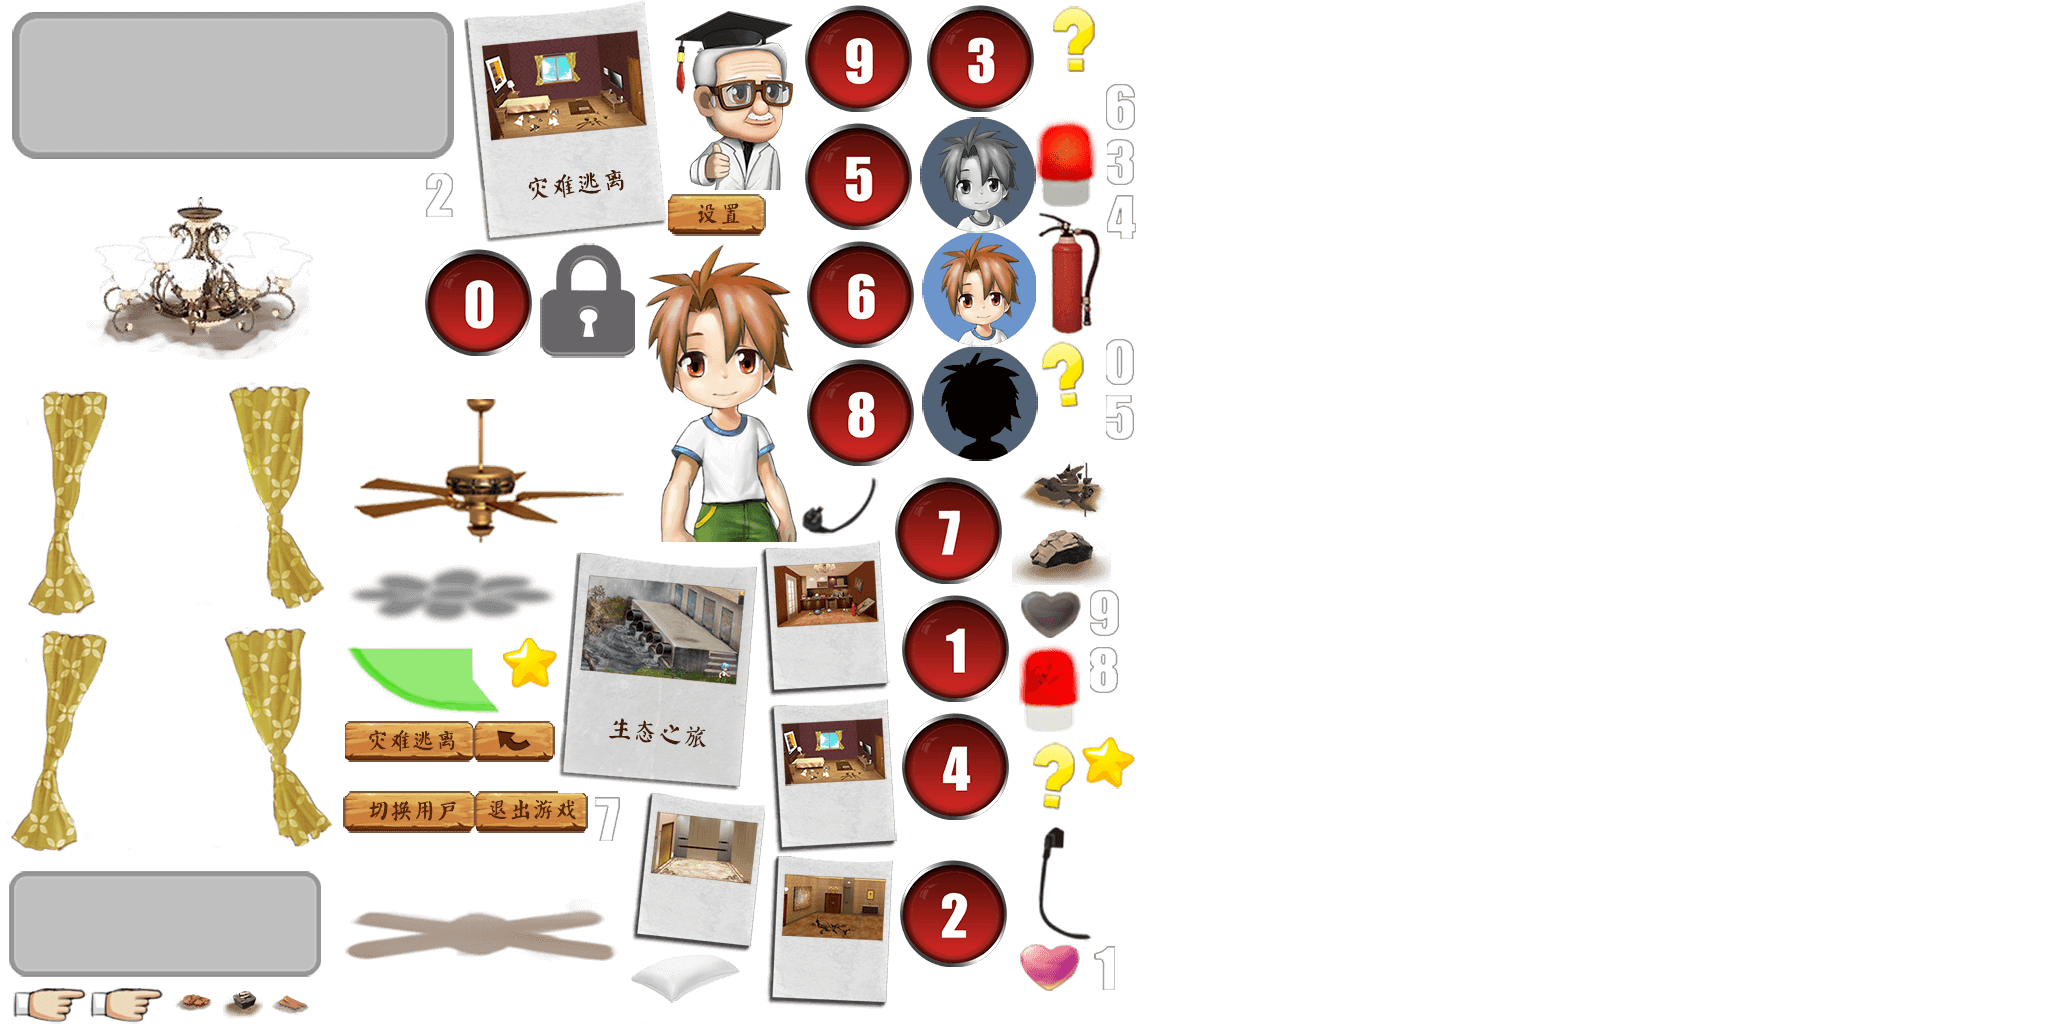
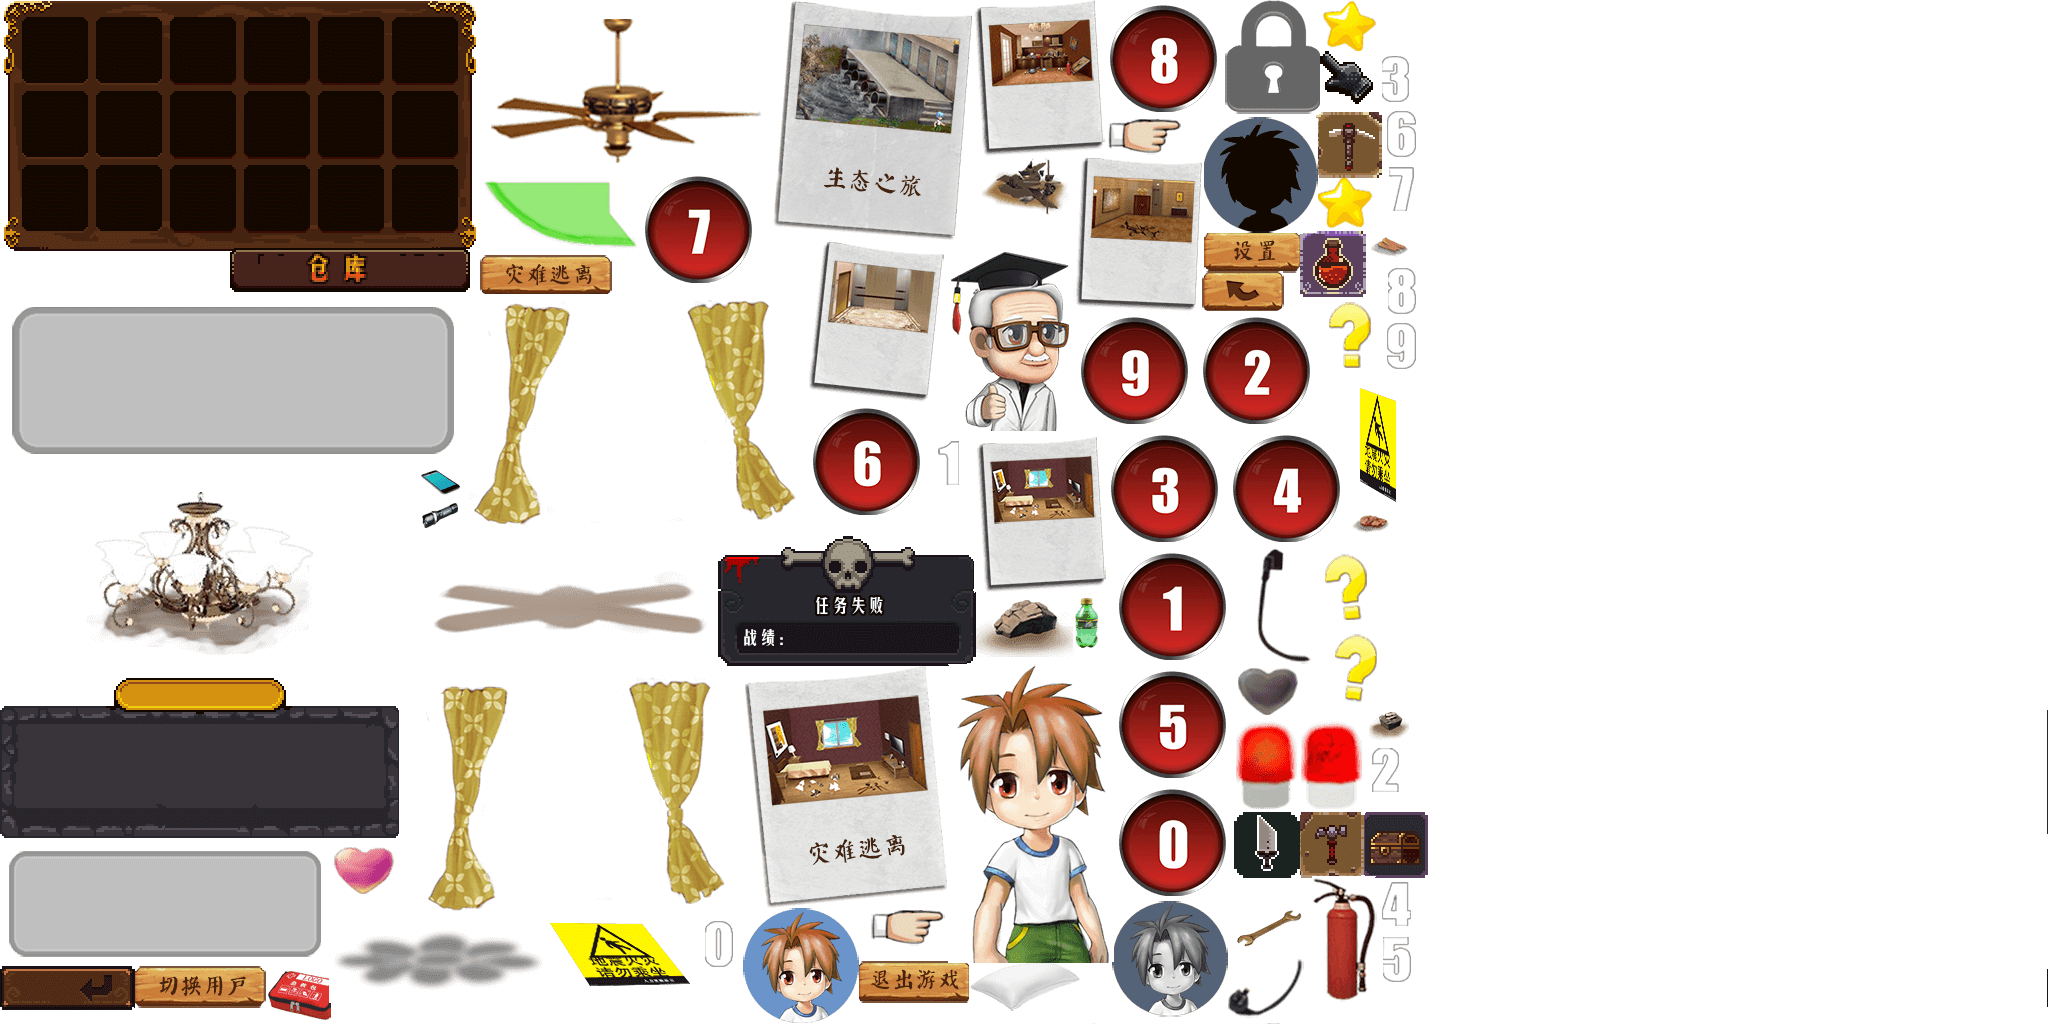
go to riddle

diff --git a/bak/js/data/configdata.js b/bak/js/data/configdata.js
@@ -12,7 +12,7 @@ game.configdata = new function(){
 	
 	self.DOWNLOADLIST_PNGS = ['fallobjs.png','bedroomafter.png', 'plug1.png','bedroombefore.png', 'boyactions.png', 'cookieroom.png', 'corridor.png', 'corridorrbg.png', 'effects.png', 'uimap.png', 'lift.png', 'liftbg.png', 'mainbg.png'];
 	//objects
-	self.IMAGEDATA_1={"liftpass":[630,792,136,162],"finger01":[0,987,86,36],"heart02":[1016,941,69,53],"ceilinglamp1":[0,168,419,212],"block3":[1011,523,99,63],"iconnum07":[889,472,122,118],"iconnum06":[801,236,122,118],"whitenum08":[1083,643,40,55],"iconnum04":[896,708,122,118],"question2":[1043,0,62,80],"question3":[1018,736,62,80],"pillow":[630,954,111,48],"question1":[1037,335,62,80],"whitenum00":[1099,335,40,55],"whitenum02":[419,168,40,55],"whitenum03":[1100,135,40,55],"iconnum01":[896,590,122,118],"backbtn":[474,722,80,39],"pass02":[463,0,204,244],"cookiepass":[758,541,131,157],"pass01":[558,551,200,241],"chuanglian2":[0,380,344,242],"start01":[1080,736,56,52],"lampshader":[344,551,214,86],"pass01btn":[344,722,130,39],"fanshader":[330,864,300,134],"iconnum03":[921,0,122,118],"iconnum02":[894,855,122,118],"btnchangeuser":[344,792,131,40],"iconnum00":[419,244,122,118],"whitenum07":[587,792,40,55],"warn1":[1035,118,65,93],"iconnum09":[799,0,122,118],"setup":[667,195,98,40],"tilebg":[0,864,330,123],"bedroompass":[766,698,130,157],"block0":[219,987,47,35],"block2":[266,987,47,35],"doctorbg":[0,0,463,168],"plug2":[801,472,76,63],"question4":[1043,0,62,80],"plug1":[1016,826,85,115],"headicon1":[921,118,114,114],"annihilator":[1037,211,64,124],"headicon2":[923,232,114,114],"lockicon":[541,244,95,113],"start02":[502,637,56,52],"warn2":[1018,643,65,93],"whitenum01":[1085,941,40,55],"boy":[636,244,165,297],"finger02":[86,987,86,36],"block4":[1011,460,99,63],"heart01":[1018,586,66,57],"doctorhead":[667,0,132,195],"safearea1":[344,637,158,85],"block1":[172,987,47,35],"corridorpass":[766,855,128,155],"whitenum05":[1099,390,40,55],"whitenum09":[1084,586,40,55],"iconnum05":[799,118,122,118],"whitenum06":[1100,80,40,55],"headicon3":[923,346,114,114],"ceilingfan1":[344,380,292,171],"chuanglian":[0,622,344,242],"whitenum04":[1101,190,40,55],"quitbt":[475,792,112,40],"iconnum08":[801,354,122,118]};
+	self.IMAGEDATA_1={"proc_icon_002": [1301, 232, 64, 64], "liftpass": [807, 241, 136, 162], "finger1": [858, 909, 86, 36], "whitenum04": [1376, 877, 40, 55], "heart02": [330, 844, 69, 53], "ceilinglamp1": [0, 463, 419, 212], "block3": [975, 593, 99, 63], "hand_001": [1321, 52, 54, 54], "dialogbg01": [0, 675, 400, 169], "whitenum08": [1381, 264, 40, 55], "iconnum04": [1227, 430, 122, 118], "question2": [1319, 296, 62, 80], "question3": [1320, 628, 62, 80], "pillow": [970, 962, 111, 48], "question1": [1320, 548, 62, 80], "proc_icon_058": [1363, 813, 64, 64], "whitenum02": [1365, 743, 40, 55], "whitenum03": [1375, 52, 40, 55], "iconnum01 ": [1113, 548, 122, 118], "backbtn": [1203, 272, 80, 39], "pass02": [744, 665, 204, 244], "cookiepass": [973, 0, 131, 157], "pass01": [773, 0, 200, 241], "failbg": [719, 537, 256, 128], "chuanglian2": [400, 675, 344, 242], "safebox": [265, 967, 65, 56], "lampshader": [330, 917, 214, 86], "pass01btn": [481, 256, 130, 39], "fanshader": [419, 537, 300, 134], "whitenum01": [929, 436, 40, 55], "iconnum03": [1105, 430, 122, 118], "iconnum02": [1197, 312, 122, 118], "warnpaper01": [1349, 376, 58, 132], "btnchangeuser": [134, 967, 131, 40], "iconnum00": [1113, 784, 122, 118], "whitenum00": [698, 917, 40, 55], "spanner": [1227, 902, 85, 52], "warn1": [1235, 720, 65, 93], "iconnum09": [1075, 312, 122, 118], "warnpaper02": [544, 917, 154, 78], "setup": [1203, 232, 98, 40], "glim": [419, 498, 43, 35], "whitenum09": [1381, 319, 40, 55], "tilebg": [0, 844, 330, 123], "bedroompass": [975, 436, 130, 157], "block0": [1365, 708, 47, 35], "block2": [1365, 229, 47, 35], "doctorbg": [0, 295, 463, 168], "plug2": [1227, 954, 76, 63], "question4": [1319, 296, 62, 80], "plug1": [1235, 548, 85, 115], "btn001": [0, 967, 134, 42], "annihilator": [1312, 877, 64, 124], "headicon2": [744, 909, 114, 114], "proc_icon_021": [1235, 813, 64, 64], "lockicon": [1226, 0, 95, 113], "start02": [1317, 177, 56, 52], "iphone": [419, 463, 44, 35], "warn2": [1300, 720, 65, 93], "iconnum07": [639, 171, 122, 118], "boy": [948, 665, 165, 297], "iconnum06": [807, 403, 122, 118], "finger2": [1104, 118, 86, 36], "block4": [973, 157, 99, 63], "heart01": [1235, 663, 66, 57], "doctorhead": [943, 241, 132, 195], "safearea1": [481, 171, 158, 85], "whitenum07": [1381, 162, 40, 55], "block1": [1349, 508, 47, 35], "corridorpass": [1075, 157, 128, 155], "whitenum05": [1376, 932, 40, 55], "toolsbg": [0, 0, 481, 295], "waterdrink": [1074, 593, 28, 56], "iconnum05": [1113, 666, 122, 118], "proc_icon_088": [1317, 113, 64, 64], "whitenum06": [1381, 107, 40, 55], "headicon3": [1203, 118, 114, 114], "start01": [1321, 0, 56, 52], "ceilingfan1": [481, 0, 292, 171], "proc_icon_030": [1299, 813, 64, 64], "chuanglian": [463, 295, 344, 242], "headicon1": [1113, 902, 114, 114], "quitbt": [858, 962, 112, 40], "iconnum08": [1104, 0, 122, 118]};
 	//effects
 	self.IMAGEDATA_2={"smog03":[526,384,110,105],"starteffect08":[234,278,146,139],"smog01":[526,174,110,105],"smog08":[526,69,110,105],"starteffect12":[234,834,146,139],"starteffect13":[380,0,146,139],"starteffect11":[234,695,146,139],"starteffect07":[234,417,146,139],"starteffect04":[234,556,146,139],"annihilatoreffect06":[0,320,234,160],"annihilatoreffect02":[0,800,234,160],"annihilatoreffect03":[0,640,234,160],"shandian_00002":[636,316,84,71],"annihilatoreffect01":[0,0,234,160],"fire4":[526,0,128,69],"starteffect09":[380,695,146,139],"smog02":[526,279,110,105],"smog07":[636,69,110,105],"smog05":[526,594,110,105],"smog04":[526,489,110,105],"extinguish1":[507,972,127,52],"starteffect10":[380,556,146,139],"extinguish3":[0,960,127,52],"starteffect05":[234,0,146,139],"annihilatoreffect04":[0,480,234,160],"starteffect06":[234,139,146,139],"shandian_00004":[636,387,84,71],"shandian_00005":[636,245,84,71],"shandian_00006":[636,529,84,71],"shandian_00001":[636,174,84,71],"smog06":[526,699,110,105],"xiaodianhua_00005":[127,960,64,64],"starteffect01":[380,417,146,139],"starteffect02":[380,278,146,139],"extinguish4":[380,972,127,52],"shandian_00003":[636,458,84,71],"fire3":[508,834,128,69],"fire1":[380,834,128,69],"xiaodianhua_00001":[636,664,64,64],"xiaodianhua_00006":[636,600,64,64],"extinguish2":[634,972,127,52],"annihilatoreffect05":[0,160,234,160],"fire2":[380,903,128,69],"starteffect03":[380,139,146,139],"fire5":[508,903,128,69]};
 	//actions

diff --git a/bak/js/scene/bedroomscene.js b/bak/js/scene/bedroomscene.js
@@ -20,6 +20,7 @@
 		fallfanShader:null,
 		plug:null,
 		pillow:null,
+		phone:null,
 		safeArea:null,
 		doorhandler:null,
 		finger:null,
@@ -37,6 +38,10 @@
 		star01:null,
 		star02:null,
 		star03:null,
+		
+		finerMouse:null,
+		toolspanel:null,
+		
 		constructor: function(properties) {
 			AttackScene.superclass.constructor.call(this, properties);
 			this.init(properties);
@@ -65,6 +70,17 @@
 			this.initTouchEvent();
 			this.headPanel.setHealth(this.hero.currentHealth);
 			game.sounds.play(0,false);
+			
+			
+			this.fingerMouse = new Hilo.Bitmap({
+				image: game.getImg('uimap'),
+				visible:false,
+				rect:game.configdata.getPngRect('hand_001','uimap')
+			}).addTo(this);
+			this.toolspanel = new game.ToolsIconPanel({
+				initx:724,
+				inity:-247,
+			}).addTo(this);
 		},
 		
 		initkeyevent:function(){
@@ -138,14 +154,32 @@
 				}
 			}
 		},
+		checkShowFingerObjects:function(mouseX,mouseY){
+			if(
+				this.checkActiveItemWithoutPos(mouseX,mouseY,this.pillow)||
+				this.checkActiveItemWithoutPos(mouseX,mouseY,this.plug)||
+				this.checkActiveItemWithoutPos(mouseX,mouseY,this.safeArea)||
+				this.checkActiveItemWithoutPos(mouseX,mouseY,this.doorhandler)||
+				this.checkActiveItemWithoutPos(mouseX,mouseY,this.phone)
+			){
+				return true;
+			}else{
+				return false;
+			}
+		},
 		
 		checkActiveObjects:function(mouseX,mouseY){
 			if(this.checkActiveItem(mouseX,mouseY,this.pillow)){
-				this.hero.switchState('handup',10);
-				this.pillow.removeFromParent();
+				//this.hero.switchState('handup',10);
+				//this.hero.ispillow = true;
+				this.pillow.x = 300;
+				this.pillow.status = 0;
+				this.phone.status = 1;
+				this.phone.visible = true;
 				this.safeArea.visible = true;
 				this.safeArea.status = 1;
-				this.hero.ispillow = true;
+				
+				new game.FlashStarEffect({x:mouseX-100,y:mouseY-100}).addTo(this);
 				this.notepanel.show(true,game.configdata.GAMETXTS.pass01_hide);
 				this.finger.setpos(752,462);
 				this.passstep = 1;
@@ -154,6 +188,10 @@
 					y:560
 				}).addTo(this);
 				this.toolippanel.show(true,'D 键 蹲下拾取星星',200);
+			}
+			if(this.checkActiveItem(mouseX,mouseY,this.phone)){
+				this.phone.removeFromParent();
+				this.toolippanel.show(true,'准备好通讯工具非常重要',200);
 			}
 			if(this.checkActiveItem(mouseX,mouseY,this.plug)){
 				this.hero.switchState('handon',10);
@@ -187,6 +225,17 @@
 				}
 			}
 		},
+		checkActiveItemWithoutPos:function(mouseX,mouseY,obj){
+			var isClickIn = false;
+			var x = obj.clickArea[0]+obj.x;
+			var y = obj.clickArea[1]+obj.y;
+			var w = obj.clickArea[2];
+			var h = obj.clickArea[3];
+			if(mouseX > x && mouseX < x+w && mouseY > y && mouseY < y+h && obj.status == 1){
+				isClickIn = true;
+			}
+			return isClickIn;
+		},
 		
 		checkActiveItem:function(mouseX,mouseY,obj){
 			var isClickIn = false;
@@ -195,11 +244,11 @@
 			var w = obj.clickArea[2];
 			var h = obj.clickArea[3];
 			if(mouseX > x && mouseX < x+w && mouseY > y && mouseY < y+h && obj.status == 1){
-				if(x - this.hero.posx <100 && y - this.hero.posy <250){
+				if(Math.abs(x+w/2 - this.hero.posx) <100 && Math.abs(y+h/2 - this.hero.posy) <200){
 					isClickIn = true;
 				}else{
 					isClickIn = false;
-					console.log('pls close');						
+					this.notepanel.show(true,'走近点...',50);					
 				}
 			}
 			return isClickIn;
@@ -302,6 +351,14 @@
 				readyImgUrl:'plug1',
 				finishedImgUrl:'plug2',
 				clickArea:[19,0,40,40],
+			}).addTo(this);
+			
+			this.phone  = new game.ActiveObject({
+				x:434,
+				y:410,
+				readyImgUrl:'iphone',
+				finishedImgUrl:'iphone',
+				clickArea:[9,0,40,40],
 			}).addTo(this);
 			
 			this.pillow  = new game.ActiveObject({
@@ -444,6 +501,21 @@
 		initTouchEvent:function(){
 			var scene = this;
 			game.stage.off();
+			game.stage.on(Hilo.event.POINTER_MOVE, function(e) {
+				if(scene.ignoreTouch)
+					return;
+				var stagex = e.stageX;
+				var stagey = e.stageY;
+				var targetx = stagex - scene.x;
+				var targety = stagey - scene.y;
+				if(scene.checkShowFingerObjects(targetx,targety)){
+					scene.fingerMouse.visible = true;
+					scene.fingerMouse.x = targetx;
+					scene.fingerMouse.y = targety;
+				}else{
+					scene.fingerMouse.visible = false;
+				}
+			});
 			game.stage.on(Hilo.event.POINTER_START, function(e) {
 				if(scene.ignoreTouch)
 					return;
@@ -476,7 +548,7 @@
 		},
 		onUpdate:function(){
 			if(this.readyShakeTime == 100){
-				this.notepanel.show(true,game.configdata.GAMETXTS.pass01_notestart,200);
+				this.notepanel.show(true,game.configdata.GAMETXTS.pass01_notestart,300);
 			}
 			
 			if(this.readyShakeTime == 300){

diff --git a/bak/new_file.js b/bak/new_file.js
@@ -1,0 +1,1 @@
+{"proc_icon_002": [1301, 232, 64, 64], "liftpass": [807, 241, 136, 162], "finger1": [858, 909, 86, 36], "whitenum04": [1376, 877, 40, 55], "heart02": [330, 844, 69, 53], "ceilinglamp1": [0, 463, 419, 212], "block3": [975, 593, 99, 63], "hand_001": [1321, 52, 54, 54], "dialogbg01": [0, 675, 400, 169], "whitenum08": [1381, 264, 40, 55], "iconnum04": [1227, 430, 122, 118], "question2": [1319, 296, 62, 80], "question3": [1320, 628, 62, 80], "pillow": [970, 962, 111, 48], "question1": [1320, 548, 62, 80], "proc_icon_058": [1363, 813, 64, 64], "whitenum02": [1365, 743, 40, 55], "whitenum03": [1375, 52, 40, 55], "iconnum01 ": [1113, 548, 122, 118], "backbtn": [1203, 272, 80, 39], "pass02": [744, 665, 204, 244], "cookiepass": [973, 0, 131, 157], "pass01": [773, 0, 200, 241], "failbg": [719, 537, 256, 128], "chuanglian2": [400, 675, 344, 242], "safebox": [265, 967, 65, 56], "lampshader": [330, 917, 214, 86], "pass01btn": [481, 256, 130, 39], "fanshader": [419, 537, 300, 134], "whitenum01": [929, 436, 40, 55], "iconnum03": [1105, 430, 122, 118], "iconnum02": [1197, 312, 122, 118], "warnpaper01": [1349, 376, 58, 132], "btnchangeuser": [134, 967, 131, 40], "iconnum00": [1113, 784, 122, 118], "whitenum00": [698, 917, 40, 55], "spanner": [1227, 902, 85, 52], "warn1": [1235, 720, 65, 93], "iconnum09": [1075, 312, 122, 118], "warnpaper02": [544, 917, 154, 78], "setup": [1203, 232, 98, 40], "glim": [419, 498, 43, 35], "whitenum09": [1381, 319, 40, 55], "tilebg": [0, 844, 330, 123], "bedroompass": [975, 436, 130, 157], "block0": [1365, 708, 47, 35], "block2": [1365, 229, 47, 35], "doctorbg": [0, 295, 463, 168], "plug2": [1227, 954, 76, 63], "question4": [1319, 296, 62, 80], "plug1": [1235, 548, 85, 115], "btn001": [0, 967, 134, 42], "annihilator": [1312, 877, 64, 124], "headicon2": [744, 909, 114, 114], "proc_icon_021": [1235, 813, 64, 64], "lockicon": [1226, 0, 95, 113], "start02": [1317, 177, 56, 52], "iphone": [419, 463, 44, 35], "warn2": [1300, 720, 65, 93], "iconnum07": [639, 171, 122, 118], "boy": [948, 665, 165, 297], "iconnum06": [807, 403, 122, 118], "finger2": [1104, 118, 86, 36], "block4": [973, 157, 99, 63], "heart01": [1235, 663, 66, 57], "doctorhead": [943, 241, 132, 195], "safearea1": [481, 171, 158, 85], "whitenum07": [1381, 162, 40, 55], "block1": [1349, 508, 47, 35], "corridorpass": [1075, 157, 128, 155], "whitenum05": [1376, 932, 40, 55], "toolsbg": [0, 0, 481, 295], "waterdrink": [1074, 593, 28, 56], "iconnum05": [1113, 666, 122, 118], "proc_icon_088": [1317, 113, 64, 64], "whitenum06": [1381, 107, 40, 55], "headicon3": [1203, 118, 114, 114], "start01": [1321, 0, 56, 52], "ceilingfan1": [481, 0, 292, 171], "proc_icon_030": [1299, 813, 64, 64], "chuanglian": [463, 295, 344, 242], "headicon1": [1113, 902, 114, 114], "quitbt": [858, 962, 112, 40], "iconnum08": [1104, 0, 122, 118]};

diff --git a/bak/js/scene/objects.js b/bak/js/scene/objects.js
@@ -511,4 +511,58 @@
 		},
 	});
 	
+	var ToolsIconPanel = ns.ToolsIconPanel = Hilo.Class.create({
+		Extends: Hilo.Container,
+		name:'ToolsIconPanel',
+		bg:null,
+		count:0,
+		index:0,
+		initx:0,
+		inity:0,
+		showtime:0,
+		sumtime:0;
+		constructor: function(properties) {
+			ToolsIconPanel.superclass.constructor.call(this, properties);
+			this.init(properties);
+		},
+		init: function(properties) {
+			this.bg = new Hilo.Bitmap({
+				image: game.getImg('uimap'),
+				rect:game.configdata.getPngRect('toolsbg','uimap'),
+			}).addTo(this);
+			this.x = this.initx;
+			this.y = this.inity;
+		},
+		setpos:function(x,y){
+			this.x = x;
+			this.y = y;
+		},
+		show:function(isshow,time){
+			var panel = this;
+			var targety = this.inity;
+			var h = this.bg.height-43;
+			if(isshow){
+				targety = targety + h;
+			}
+			new Hilo.Tween.to(panel,{
+				 y:targety
+			},{
+				duration:500,
+				onComplete:function(){
+				}
+			});
+			panel.showtime = time;
+		},
+		onUpdate:function(){
+			if(this.showtime > 0){
+				this.sumtime++;
+			}
+			if(this.sumtime > this.showtime){
+				this.sumtime = 0;
+				this.showtime = 0;
+				this.show(false);
+			}
+		},
+	});
+	
 })(window.game);

diff --git a/bak/js/game.js b/bak/js/game.js
@@ -23,6 +23,7 @@
 		gamestart: false,
 		winWidth:0,
 		winHeight:0,
+
 		init: function() {
 			var browserInfo = Hilo.browser;
 			var winWidth = window.innerWidth || document.documentElement.clientWidth;

diff --git a/bak/js/scene/scene.js b/bak/js/scene/scene.js
@@ -104,6 +104,8 @@
 				loop: true,
 			}).addTo(this);
 			this.addLoadCoinbg();
+			
+			
 		},
 		deactive: function() {
 			this.destory();
